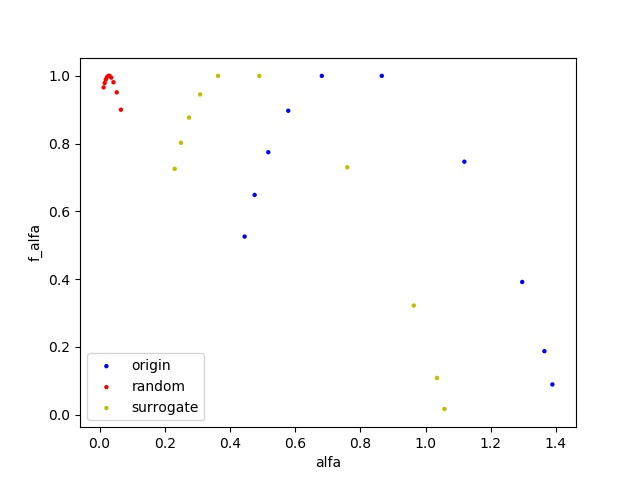
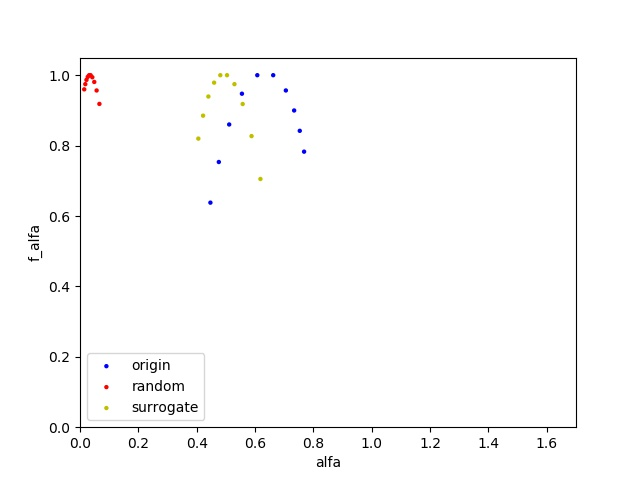
test axis

diff --git a/finite.py b/finite.py
@@ -3,12 +3,12 @@ import numpy as np
 import matplotlib.pyplot as plt
 import os
 
-from method.DPXA import MF_DPXA
+from method.DCCA import MF_DCCA
 from method.CCA import MF_CCA
 from method.surrogate import FSE_init
 
 
-def print_graph(filename, folder, x, y, labels, label_x, label_y, locate='lower left'):
+def print_graph(filename, folder, x, y, labels, label_x, label_y, scale, locate='lower left'):
     size_t = 10
     plt.figure()
     plt.scatter(x[0], y[0], s=size_t, c='b',
@@ -17,6 +17,7 @@ def print_graph(filename, folder, x, y, labels, label_x, label_y, locate='lower 
                 edgecolors='none', label=labels[1])
     plt.scatter(x[2], y[2], s=size_t, c='y',
                 edgecolors='none', label=labels[2])
+    plt.axis(scale)
     plt.xlabel(label_x)
     plt.ylabel(label_y)
     plt.legend(loc=locate)
@@ -39,8 +40,10 @@ def estimate_fse(filename, class_t, folder):
               method_dcca_rand.f_alfa, method_dcca_surr.f_alfa]
     label_fse = ['origin', 'random', 'surrogate']
     label_hurst = ['A Data', 'B Data', 'C Data']
-    print_graph(filename, folder, alfa, f_alfa, label_fse, 'alfa', 'f_alfa')
-    # print_graph('Hurst' + filename, folder, flist, hurst_list, label_hurst, 'q', 'H_q')
+    print_graph(filename, folder, alfa, f_alfa, label_fse,
+                'alfa', 'f_alfa', scale=[0, 1.6, 0, 1.05])
+    # print_graph('Hurst' + filename, folder, flist, hurst_list, label_hurst,
+    # 'q', 'H_q')
     print(filename)
     print('origin', max(method_dcca.alfa) - min(method_dcca.alfa))
     print('random', max(method_dcca_rand.alfa) - min(method_dcca_rand.alfa))
@@ -49,29 +52,36 @@ def estimate_fse(filename, class_t, folder):
 
 
 current_dir = 'data'
-list_t = [-5.0, -4.9, -4.8, -4.7, -4.6, -4.5, -4.4, -4.3, -4.2, -4.1, -4.0, -3.9, -3.8, -3.7, -3.6, -3.5, -3.4, -3.3, -3.2, -3.1, -3.0, -2.9, -2.8, -2.7, -2.6, -2.5, -2.4, -2.3, -2.2, -2.1, -2.0, -1.9, -1.8, -1.7, -1.6, -1.5, -1.4, -1.3, -1.2, -1.1, -1.0, -0.9, -0.8, -0.7, -0.6, -
-          0.5, -0.4, -0.3, -0.2, -0.1, 0.0, 0.1, 0.2, 0.3, 0.4, 0.5, 0.6, 0.7, 0.8, 0.9, 1.0, 1.1, 1.2, 1.3, 1.4, 1.5, 1.6, 1.7, 1.8, 1.9, 2.0, 2.1, 2.2, 2.3, 2.4, 2.5, 2.6, 2.7, 2.8, 2.9, 3.0, 3.1, 3.2, 3.3, 3.4, 3.5, 3.6, 3.7, 3.8, 3.9, 4.0, 4.1, 4.2, 4.3, 4.4, 4.5, 4.6, 4.7, 4.8, 4.9, 5.0]
+# list_t =
+# [-5.0, -4.9, -4.8, -4.7, -4.6, -4.5, -4.4, -4.3, -4.2, -4.1, -4.0, -3.9, -3.8, -3.7, -3.6, -3.5, -3.4, -3.3, -3.2, -3.1, -3.0, -2.9, -2.8, -2.7, -2.6, -2.5, -2.4, -2.3, -2.2, -2.1, -2.0, -1.9, -1.8, -1.7, -1.6, -1.5, -1.4, -1.3, -1.2, -1.1, -1.0, -0.9, -0.8, -0.7, -0.6, -
+# 0.5, -0.4, -0.3, -0.2, -0.1, 0.0, 0.1, 0.2, 0.3, 0.4, 0.5, 0.6, 0.7,
+# 0.8, 0.9, 1.0, 1.1, 1.2, 1.3, 1.4, 1.5, 1.6, 1.7, 1.8, 1.9, 2.0, 2.1,
+# 2.2, 2.3, 2.4, 2.5, 2.6, 2.7, 2.8, 2.9, 3.0, 3.1, 3.2, 3.3, 3.4, 3.5,
+# 3.6, 3.7, 3.8, 3.9, 4.0, 4.1, 4.2, 4.3, 4.4, 4.5, 4.6, 4.7, 4.8, 4.9,
+# 5.0]
+list_t = [-5, -4, -3, -2, -1, 0, 1, 2, 3, 4, 5]
 flist = [list_t, list_t, list_t]
+hurst_cca = []
 hurst_dcca = []
-hurst_dpxa = []
 label_hurst = ['A Data', 'B Data', 'C Data']
 for root, dirs, files in os.walk(current_dir):
     for file in files:
-        hurst_dcca.append(estimate_fse(file, MF_CCA, 'fse_dcca\\'))
-        hurst_dpxa.append(estimate_fse(file, MF_DPXA, 'fse_dpxa\\'))
+        hurst_cca.append(estimate_fse(file, MF_CCA, 'fse_cca\\'))
+        hurst_dcca.append(estimate_fse(file, MF_DCCA, 'fse_dcca\\'))
+for item in hurst_cca:
+    print item[7]
 for item in hurst_dcca:
     print item[7]
-for item in hurst_dpxa:
-    print item[7]
-dcca_p1 = hurst_dcca[0:3]
-dcca_p2 = hurst_dcca[3:6]
-dpxa_p1 = hurst_dpxa[0:3]
-dpxa_p2 = hurst_dpxa[3:6]
-print_graph('Hurst_dcca1', 'fse_dcca\\', flist,
-            dcca_p1, label_hurst, 'q', 'H_q')
-print_graph('Hurst_dcca2', 'fse_dpxa\\', flist,
-            dcca_p2, label_hurst, 'q', 'H_q')
-print_graph('Hurst_dpxa1', 'fse_dcca\\', flist,
-            dpxa_p1, label_hurst, 'q', 'H_q')
-print_graph('Hurst_dpxa2', 'fse_dpxa\\', flist,
-            dpxa_p2, label_hurst, 'q', 'H_q')
+dcca_p1 = hurst_cca[0:3]
+dcca_p2 = hurst_cca[3:6]
+dpxa_p1 = hurst_dcca[0:3]
+dpxa_p2 = hurst_dcca[3:6]
+axiss = [-5.5, 5.5, 0, 1.4])
+print_graph('hurst_cca1', 'fse_cca\\', flist,
+            dcca_p1, label_hurst, 'q', 'H_q', scale = axiss)
+print_graph('hurst_cca2', 'fse_dcca\\', flist,
+            dcca_p2, label_hurst, 'q', 'H_q', scale = axiss)
+print_graph('hurst_dcca1', 'fse_cca\\', flist,
+            dpxa_p1, label_hurst, 'q', 'H_q', scale = axiss)
+print_graph('hurst_dcca2', 'fse_dcca\\', flist,
+            dpxa_p2, label_hurst, 'q', 'H_q', scale = axiss)

diff --git a/method/DCCA.py b/method/DCCA.py
@@ -26,7 +26,7 @@ class MF_DCCA(object):
     def _fit_residual(self, degree, x_profile, y_profile, r_x, step_t):
         num_wins = len(x_profile)
         nroot = lambda x, q: exp(mean(log(sqrt(x)) )) if -1e-3<q<1e-3 else power(mean(power(x, q/2.0)), 1.0/q)
-        corr = lambda x1, x2, y1, y2: mean(absolute(multiply(subtract(x1, x2), subtract(y1, y2)), axis = 1))
+        corr = lambda x1, x2, y1, y2: mean(absolute(multiply(subtract(x1, x2), subtract(y1, y2))), axis = 1)
         #x_profile = cumsum(x_wins, axis = 1)
         #y_profile = cumsum(y_wins, axis = 1)
         #r_x = [k for k in range(step_t)]
